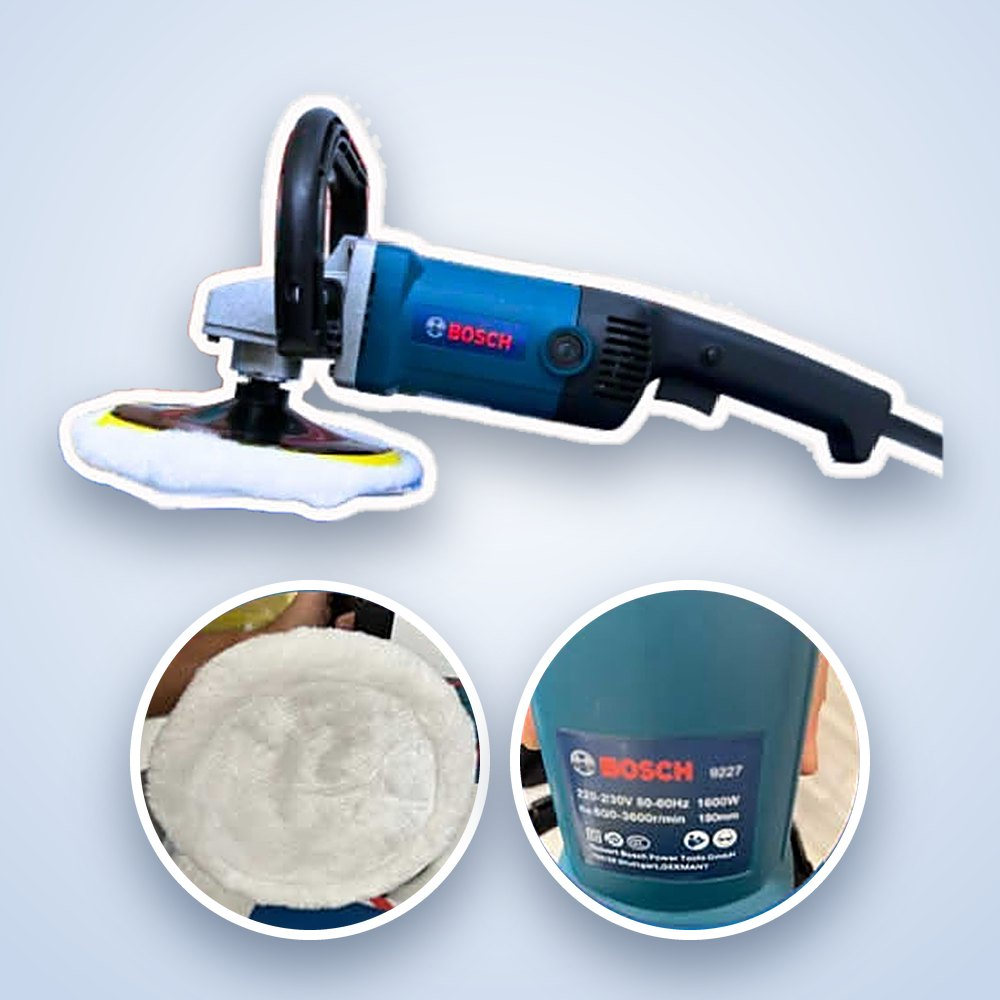
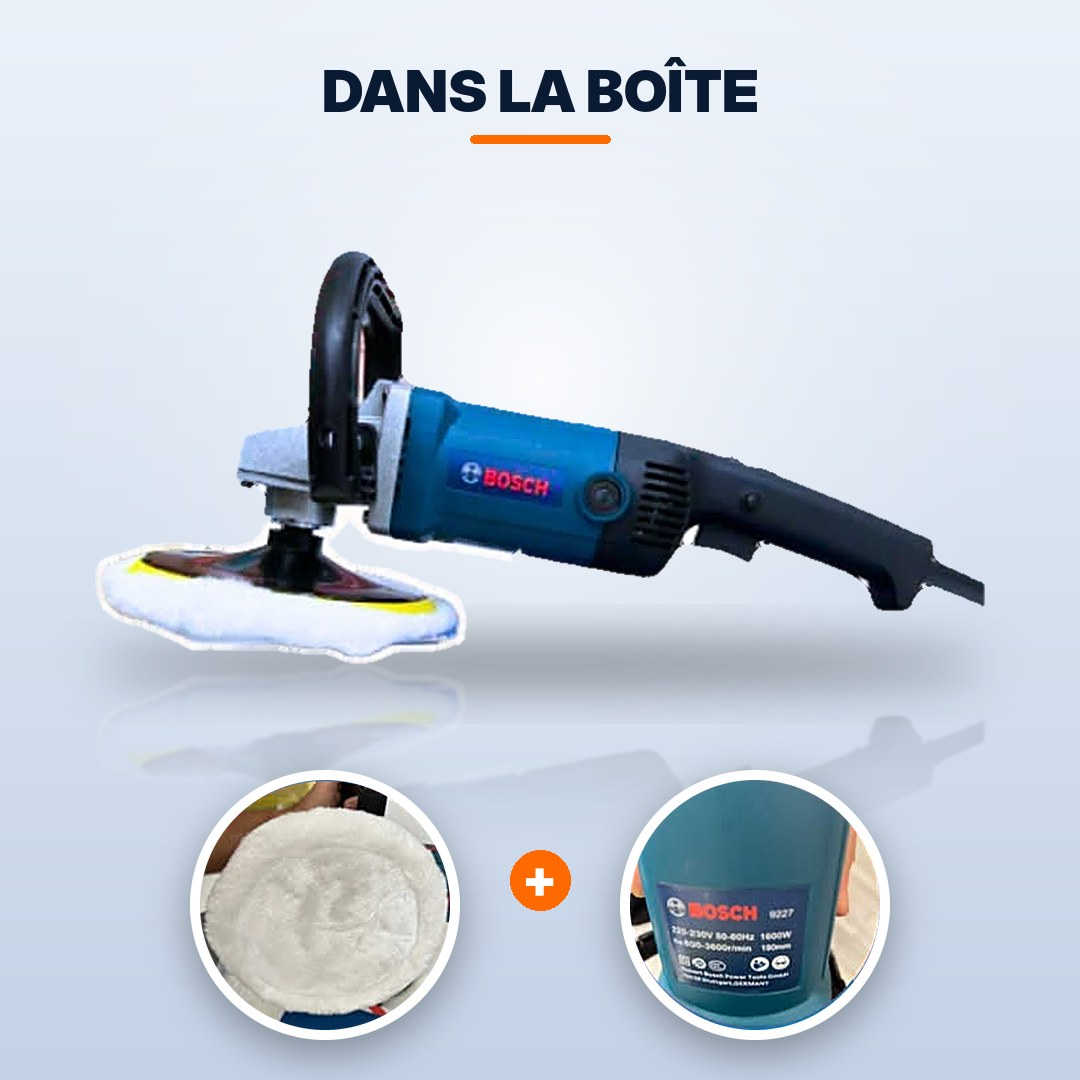
Replace product images with studio renders and set WhatsApp number
Claude-Session: https://claude.ai/code/session_01KdmbmoyykqMDbTGgdVzH4A

diff --git a/index.html b/index.html
@@ -164,14 +164,14 @@ footer{margin-top:30px;background:var(--navy);color:#cfd8ea;text-align:center;fo
 
     <div class="gallery">
       <div class="main-img">
-        <img id="mainImg" src="images/1-hero.jpg" alt="بوليسوز بوش 1600 وات" width="900" height="900">
+        <img id="mainImg" src="images/1-hero.jpg" alt="بوليسوز بوش 1600 وات" width="1080" height="1080">
         <span class="off" id="offBadge">-35%</span>
       </div>
       <div class="thumbs" id="thumbs">
         <button class="on" data-src="images/1-hero.jpg" aria-label="صورة 1"><img src="images/1-hero.jpg" alt=""></button>
-        <button data-src="images/2-head.jpg" aria-label="صورة 2"><img src="images/2-head.jpg" alt=""></button>
-        <button data-src="images/3-pad.jpg" aria-label="صورة 3"><img src="images/3-pad.jpg" alt=""></button>
-        <button data-src="images/4-label.jpg" aria-label="صورة 4"><img src="images/4-label.jpg" alt=""></button>
+        <button data-src="images/2-action.jpg" aria-label="صورة 2"><img src="images/2-action.jpg" alt=""></button>
+        <button data-src="images/3-specs.jpg" aria-label="صورة 3"><img src="images/3-specs.jpg" alt=""></button>
+        <button data-src="images/4-pad.jpg" aria-label="صورة 4"><img src="images/4-pad.jpg" alt=""></button>
         <button data-src="images/5-kit.jpg" aria-label="صورة 5"><img src="images/5-kit.jpg" alt=""></button>
       </div>
     </div>
@@ -211,15 +211,15 @@ footer{margin-top:30px;background:var(--navy);color:#cfd8ea;text-align:center;fo
   <section>
     <h2>علاش تختار هاد البوليسوز؟</h2>
     <div class="feat">
-      <img src="images/2-head.jpg" alt="رأس البوليسوز مع القرص" loading="lazy" width="900" height="900">
+      <img src="images/2-action.jpg" alt="البوليسوز فوق صباغة السيارة" loading="lazy" width="1080" height="1080">
       <div class="txt"><h3>قوة 1600 وات للمعة احترافية</h3><p>محرك قوي كيعطيك لمعة بحال ديال المحترفين فالسيارات، الرخام والزليج، بلا عيا وفوقت قصير.</p></div>
     </div>
     <div class="feat">
-      <img src="images/3-pad.jpg" alt="قرص الصوف للتلميع" loading="lazy" width="900" height="900">
+      <img src="images/4-pad.jpg" alt="قرص الصوف للتلميع" loading="lazy" width="1080" height="1080">
       <div class="txt"><h3>قرص صوف 180 ملم</h3><p>قرص كبير كيغطي مساحة واسعة، مناسب للتلميع والبوليش وإزالة الخدوش الخفيفة من الصباغة.</p></div>
     </div>
     <div class="feat">
-      <img src="images/4-label.jpg" alt="لوحة المعلومات التقنية" loading="lazy" width="900" height="900">
+      <img src="images/3-specs.jpg" alt="المواصفات التقنية" loading="lazy" width="1080" height="1080">
       <div class="txt"><h3>عدة أنظمة للسرعة</h3><p>سرعة قابلة للتعديل من 600 حتى 3600 دورة فالدقيقة، باش تختار السرعة المناسبة لكل خدمة. يخدم على 220-230V.</p></div>
     </div>
   </section>
@@ -227,7 +227,7 @@ footer{margin-top:30px;background:var(--navy);color:#cfd8ea;text-align:center;fo
   <section>
     <h2>شنو كاين فالعلبة؟</h2>
     <div class="feat">
-      <img src="images/5-kit.jpg" alt="محتوى العلبة" loading="lazy" width="1000" height="1000">
+      <img src="images/5-kit.jpg" alt="محتوى العلبة" loading="lazy" width="1080" height="1080">
     </div>
     <ul class="list">
       <li>بوليسوز بوش 1600 وات</li>
@@ -339,7 +339,7 @@ footer{margin-top:30px;background:var(--navy);color:#cfd8ea;text-align:center;fo
 */
 const CONFIG = {
   SHEET_URL: "",
-  WHATSAPP: "",      // مثال: "212612345678"
+  WHATSAPP: "212621616875",      // مثال: "212612345678"
   FB_PIXEL_ID: "",   // مثال: "123456789012345"
   PRICE: 650,
   OLD_PRICE: 999,
